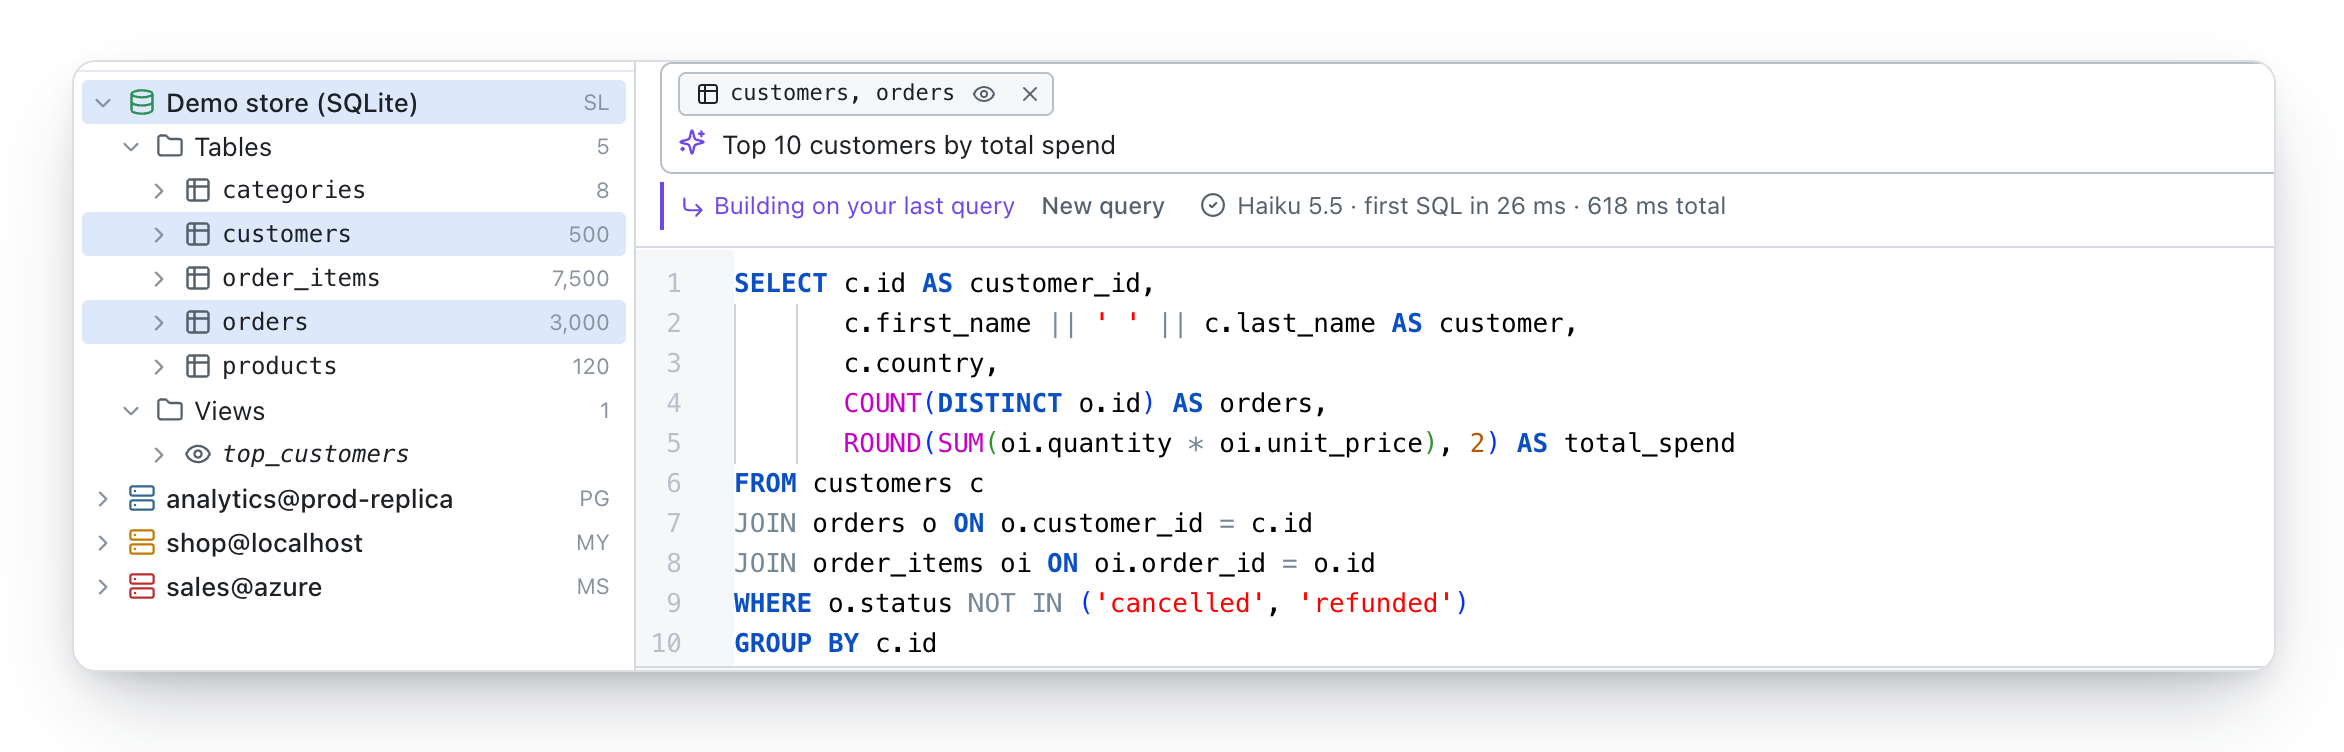
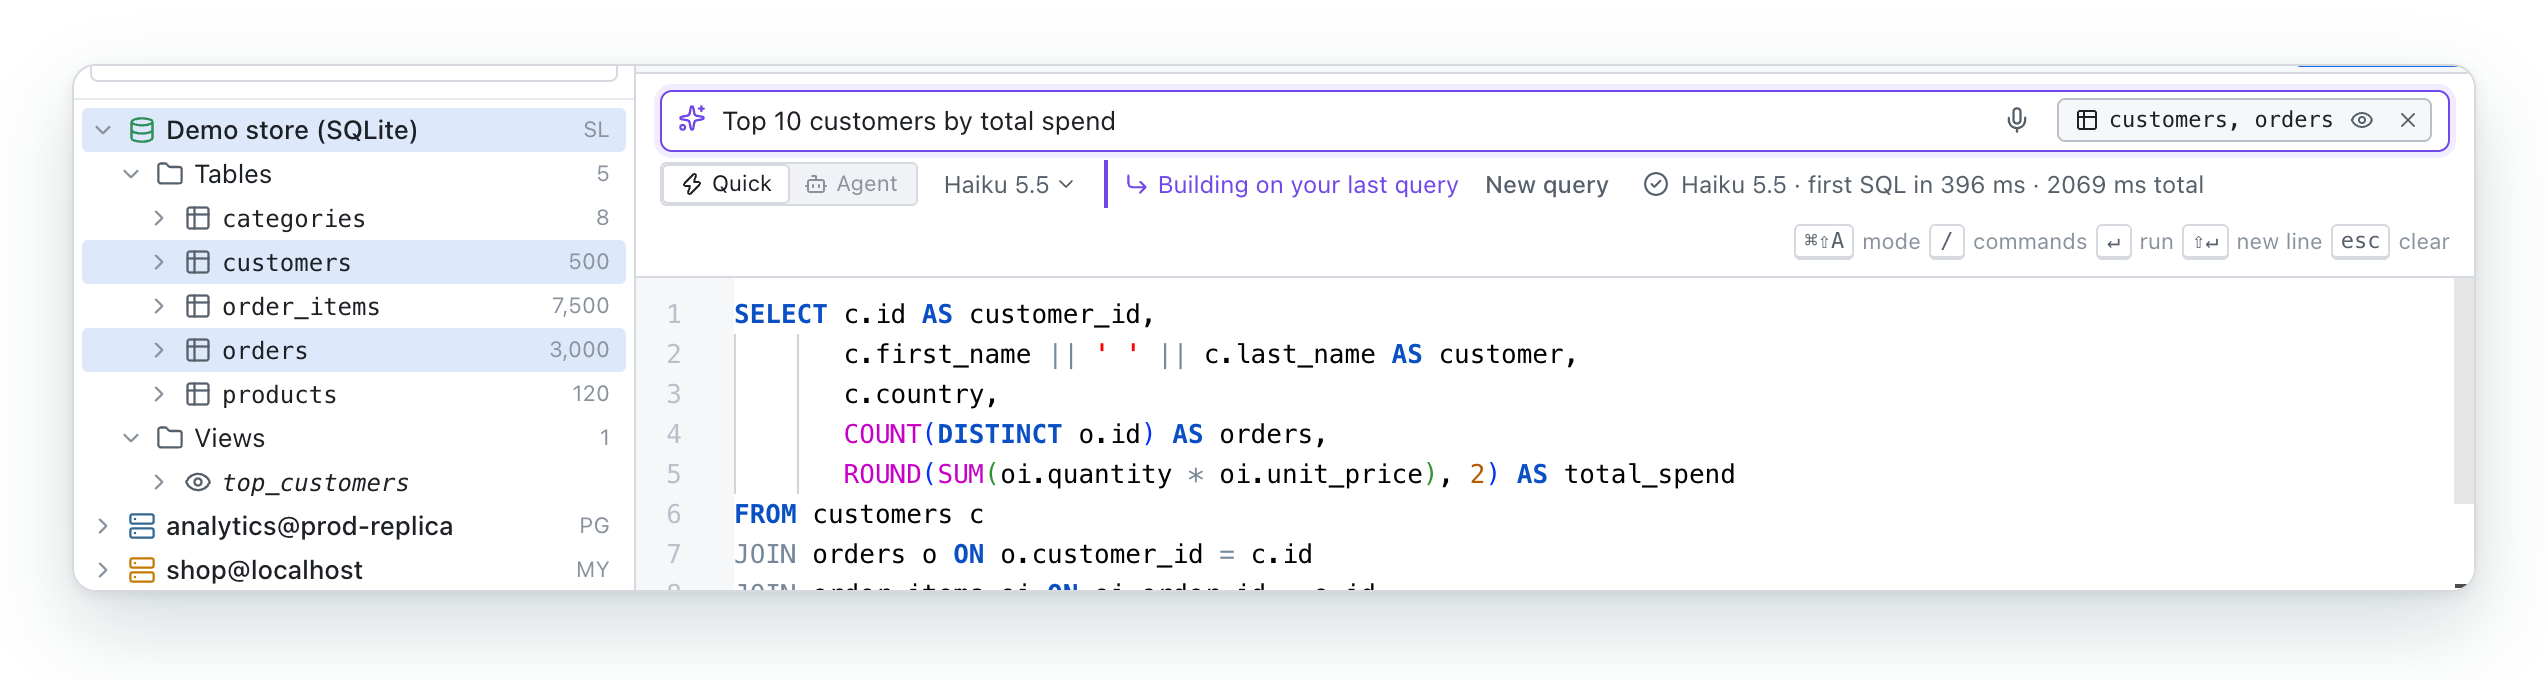
README screenshots for 0.3.0: the new Ask box, and agent mode
scripts/screenshots/readme.mjs takes them from the UI preview in light and
dark, so they can be retaken after the next UI change.

Changed region(s): [[0.0311, 0.0618, 0.9654, 0.9265], [0.9343, 0.4015, 0.9966, 0.7412], [0.6852, 0.3088, 0.9654, 0.4015]]

diff --git a/README.md b/README.md
@@ -23,7 +23,7 @@ The right SQL in seconds, and nothing changes unless you say so.
 
 <picture>
   <source media="(prefers-color-scheme: dark)" srcset=".github/assets/hero-dark.png">
-  <img src=".github/assets/hero-light.png" alt="SayQL: the Ask box with the question 'Top 10 customers by total spend', the SQL it wrote, and the 10 result rows" width="100%">
+  <img src=".github/assets/hero-light.png" alt="SayQL: the Ask box in Quick mode with the question 'Top 10 customers by total spend', the SQL it wrote, and the 10 result rows" width="100%">
 </picture>
 
 </div>
@@ -66,7 +66,7 @@ the database rejects a query, SayQL fixes it automatically.
 
 <picture>
   <source media="(prefers-color-scheme: dark)" srcset=".github/assets/feature-ask-dark.png">
-  <img src=".github/assets/feature-ask-light.png" alt="The Ask box with two tables picked as context, the question, and the SQL being written" width="100%">
+  <img src=".github/assets/feature-ask-light.png" alt="The Ask box with two tables picked as context, the Quick / Agent switch, the model picker, and the SQL it wrote" width="100%">
 </picture>
 
 </td>
@@ -97,6 +97,11 @@ mode lets it run without stopping for the plan or each send.
 It's off on every connection until you turn it on, and you choose what it may see of results: nothing, counts
 and summaries, or up to 20 rows with personal data masked. What it learns can be saved as database notes,
 which help the Ask box, the agent and MCP next time.
+
+<picture>
+  <source media="(prefers-color-scheme: dark)" srcset=".github/assets/feature-agent-dark.png">
+  <img src=".github/assets/feature-agent-light.png" alt="Agent mode in Auto: two read-only steps that sent only counts and summaries, and an answer citing them" width="100%">
+</picture>
 
 ### Your AI, your data
 
